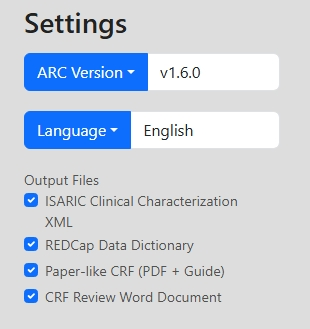
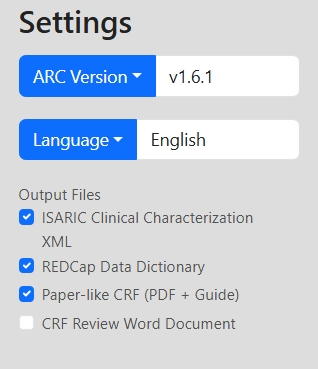
Improve the explaination and clarity in bridge_starting.html file, and replace screenshots

Changed region(s): [[0.029, 0.0304, 0.9581, 0.4559], [0.0581, 0.4863, 0.8129, 0.9422]]

diff --git a/docs/bridge_starting.html b/docs/bridge_starting.html
@@ -68,9 +68,9 @@
         <p>Access ISARIC BRIDGE web application here: <a href="https://bridge.isaric.org/">BRIDGE</a></p>
         
         <h2 id="introduction">Introduction</h2>
-        <p>BRIDGE is an <a href="https://isaric.org/">ISARIC</a> developed web application that assists in the creation of Clinical Report Forms (CRFs). It is based on <a href="https://github.com/ISARICResearch/DataPlatform/tree/main/ARCH">ARC.</a> </p>
-        <p>ARC is a comprehensive machine-readable document in CSV format, designed for use in Clinical Report Forms (CRFs) during disease outbreaks. It includes a library of questions covering demographics, comorbidities, symptoms, medications, and outcomes. Each question is based on a standardized schema, has specific definitions mapped to controlled terminologies, and has built-in quality control. ARC is openly accessible, with version control via GitHub ensuring document integrity and collaboration.</p>
-        <p>BRIDGE is a web-based application designed to operationalize ARC and edit any ISARIC CRF and tailor it to an outbreak's particular context. By selecting and customizing clinical questions and ensuring necessary data points for each, BRIDGE automates the creation of Case Report Forms (CRFs) for each disease and specific research context. It generates the data dictionary and XML needed to create a REDCap database for capturing data in the ARC structure. Additionally, it produces paper-like versions of the CRFs and completion guides.</p>
+        <p>BRIDGE is an <a href="https://isaric.org/">ISARIC</a> developed web application that assists in the creation of Case Report Forms (CRFs). It is based on <a href="https://github.com/ISARICResearch/DataPlatform/tree/main/ARCH">ARC.</a> </p>
+        <p>ARC is a comprehensive machine-readable document in CSV format, designed for rapid Case Report Forms (CRFs) development during disease outbreaks. It includes a library of questions covering demographics, comorbidities, symptoms, medications, and outcomes. Each question is based on a standardized schema, has specific definitions mapped to controlled terminologies, and has built-in quality control. ARC is openly accessible, with version control via GitHub ensuring document integrity and collaboration.</p>
+        <p>BRIDGE is a web-based application designed to operationalize ARC, edit any ISARIC CRF, and tailor it to an outbreak's particular context. By selecting and customizing clinical questions and ensuring necessary data points for each, BRIDGE automates the creation of Case Report Forms (CRFs) for each disease and specific research context. It generates the data dictionary and XML needed to create a REDCap database for capturing data in the ARC structure. Additionally, it produces paper-like versions of the CRFs and completion guides, and optionally a CRF editable word document.</p>
         
         <h2 id="structure">Structure</h2>
         <p>BRIDGE is divided into three components:</p>
@@ -80,19 +80,22 @@
             <li>The CRF representation panel shows how the CRF is going to be when generating, including selected questions and support questions needed to be functional (that are automatically added by BRIDGE).</li>
         </ol>
 
-        <img src="https://github.com/ISARICResearch/Training/raw/main/docs/assets/1_structure.png" alt="BRIDGE structure">
+        <img src="assets/1_structure.png" alt="BRIDGE structure">
 
         
         <h2 id="settings">Settings</h2>
-        <p>In the settings panel, users can select the version of ARC they want to use, choose their preferred language, and specify the BRIDGE output files they want to generate:</p>
+        <p>The Settings Panel allows users to customize their data collection environment by selecting their preferred ARC version, language, and BRIDGE output files.
+            The selected language automatically applies to all field labels and any generated BRIDGE output files irrespective of the ARC version.</p>
+        <p>Users must choose language of choice before proceeding to template, as changing this setting later will completely erase any question selections already made in the template.</p>
+        <p>The specific BRIDGE output files generated are based on user's selection in the settings panel, and each output file serve a distinct purpose described below:</p>
         <ul>
             <li><strong>ISARIC Clinical Characterization XML:</strong> This file can be used to generate a REDCap project. It contains the clinical characterization structure that can be uploaded to REDCap to generate a project that allows data capture in the ARC structure.</li>
             <li><strong>REDCap Data Dictionary:</strong> This file can be used to add the specific eCRFs and questions selected in BRIDGE to the REDCap project.</li>
             <li><strong>Paper-like CRF:</strong> This is a PDF file that can be printed and used to collect data manually, allowing sites that cannot capture data electronically to collect information that can later be uploaded to the REDCap database.</li>
-            <li><strong>CRF Review Word Document:</strong>This is an eCRF editable word document version, which can be use to facilitate collaborative reviews and adjustments before finalizing the the CRF.</li>
+            <li><strong>CRF Review Word Document:</strong>This is an editable Word document version of the eCRF, which can be used for collaborative reviews and adjustments before finalizing the CRF. Note: This option is not checked by default; if you need this file, you must explicitly select it.</li>
         </ul>
 
-        <img src="https://github.com/ISARICResearch/Training/raw/main/docs/assets/2_settings.jpeg" alt="BRIDGE settings">
+        <img src="assets/2_settings.jpeg" alt="BRIDGE settings">
         
                
         <h2 id="templates">Templates</h2>
@@ -103,18 +106,18 @@
         <p>If multiple templates are selected, the obtained CRF is the union of the questions from all the selected templates. Additionally, the CRFs can be customized. See <a href="#create-crf">How to Create a CRF with BRIDGE</a> section.</p>
         
         <h2 id="create-crf">How to Create a CRF with BRIDGE</h2>
-        <img src="https://github.com/ISARICResearch/Training/raw/main/docs/assets/3_tree.jpeg" alt="BRIDGE checkable tree">
+        <img src="assets/3_tree.jpeg" alt="BRIDGE checkable tree">
         <p>To create a CRF in BRIDGE, users need to navigate the checkable tree and select the questions they want to include in the CRF. After this is done, a representation of the questions will appear in the CRF representation panel. Sometimes additional questions will appear because BRIDGE handles retro-inclusion of questions. For example, when the user checks the ‘Pregnant’ question, the ‘Sex at birth’ question is also added to the CRF.</p>
-        <img src="https://github.com/ISARICResearch/Training/raw/main/docs/assets/4_example1.jpeg" alt="BRIDGE Example 1">
+        <img src="assets/4_example1.jpeg" alt="BRIDGE Example 1">
         <p>Similarly, BRIDGE also generates and adds questions that improve electronic data collection. For example, when the user selects the question ‘Other sign(s) (Group),’ additional questions are added that promote the inclusion of up to five additional unlisted signs at presentation.</p>
-        <img src="https://github.com/ISARICResearch/Training/raw/main/docs/assets/5_example2.jpeg" alt="BRIDGE Example 2">
+        <img src="assets/5_example2.jpeg" alt="BRIDGE Example 2">
         <h2 id="user-defined-questions">User Defined Questions</h2>
         <p>In addition to allowing the selection of questions for a particular CRF, BRIDGE allows further question customization in the following ways:</p>
         <ul>
             <li><strong>‘Select units’ question:</strong> Measurement units can be selected in questions that have the text ‘(select units)’ in the label. Users can select the units they want to include in the CRF, and BRIDGE will add the pertinent questions for this. For example, if a user selects a single unit for a question, such as cm in ‘Height,’ the numeric question ‘Height (cm)’ will be added. If the user selects multiple units, such as cm and in, BRIDGE will generate a numeric question for ‘Height’ and another radio question for ‘Select Height units’ with the selected units.</li>
-            <img src="https://github.com/ISARICResearch/Training/raw/main/docs/assets/6_selectunits.jpg" alt="BRIDGE Select Units">
+            <img src="assets/6_selectunits.jpg" alt="BRIDGE Select Units">
             <li><strong>‘User list’ question:</strong> For particular questions, the options that are adequate for the disease and/or site can be selected by the user. The user needs to click the LABEL of the question with this symbol ↳ in the checkable tree. This will open a new window that allows users to select the pertinent options for such questions. This will generate a radio question with the user-selected options and the ‘Other’ option. It will also generate a dropdown question with the options that were not selected by the user, which corresponds to a second layer of possible options to limit free text. A third question for free text is also added and will appear in electronic capture when the ‘Other’ option in the second layer dropdown is selected.</li>
-            <img src="https://github.com/ISARICResearch/Training/raw/main/docs/assets/7_userlist.jpeg" alt="BRIDGE User list">
+            <img src="assets/7_userlist.jpeg" alt="BRIDGE User list">
             <li><strong>‘Multi list’ question:</strong> The question with this symbol on the label ⇉ has a similar behavior to the ‘User list’ question, with the only difference being that the layer one options are checkboxes, not radios, allowing multiple selections.</li>
         </ul>
         <p>After choosing the variables, users can generate the pertinent files. They need to enter a CRF name in the textbox below the CRF representation panel and click on one of th buttons:</p>
@@ -128,11 +131,11 @@
         <p>As mentioned, BRIDGE generates four files:</p>
         <ul>
             <li><strong>ISARIC Clinical Characterization XML:</strong> This XML file can be used to create a project in REDCap. To do this, navigate to the 'Project Setup' section in REDCap, and under 'Design your data collection instruments & enable your project,' click on 'Upload Instrument Zip file' and upload the XML file generated by BRIDGE.</li>
-            <img src="https://github.com/ISARICResearch/Training/raw/main/docs/assets/8_redcapxml.png" alt="REDCAP XML">
+            <img src="assets/8_redcapxml.png" alt="REDCAP XML">
             <li>This file creates a REDCap project with the following event structure:</li>
-            <img src="https://github.com/ISARICResearch/Training/raw/main/docs/assets/Events_and_intruments.png" alt="Event_forms Structure">
+            <img src="assets/Events_and_intruments.png" alt="Event_forms Structure">
             <li><strong>REDCap Data Dictionary CSV:</strong> This CSV file can be used to update an existing REDCap project. Go to the 'Data Dictionary' section in REDCap, click 'Choose File,' and upload the CSV file generated by BRIDGE. Click 'Upload File' to apply the changes.</li>
-            <img src="https://github.com/ISARICResearch/Training/raw/main/docs/assets/9_redcapcsv.png" alt="REDCAP CSV">
+            <img src="assets/9_redcapcsv.png" alt="REDCAP CSV">
             <li><strong>Paper-like CRF:</strong> This PDF file can be printed and used for manual data capture in sites that cannot collect data electronically. The collected data can later be entered into the REDCap database.</li>
             <li><strong>CRF Review Word Document:</strong>This editable eCRF word document can be use to facilitate collaborative reviews and adjustments to study specific needs before finalizing the the CRFs.</li>
         </ul>
